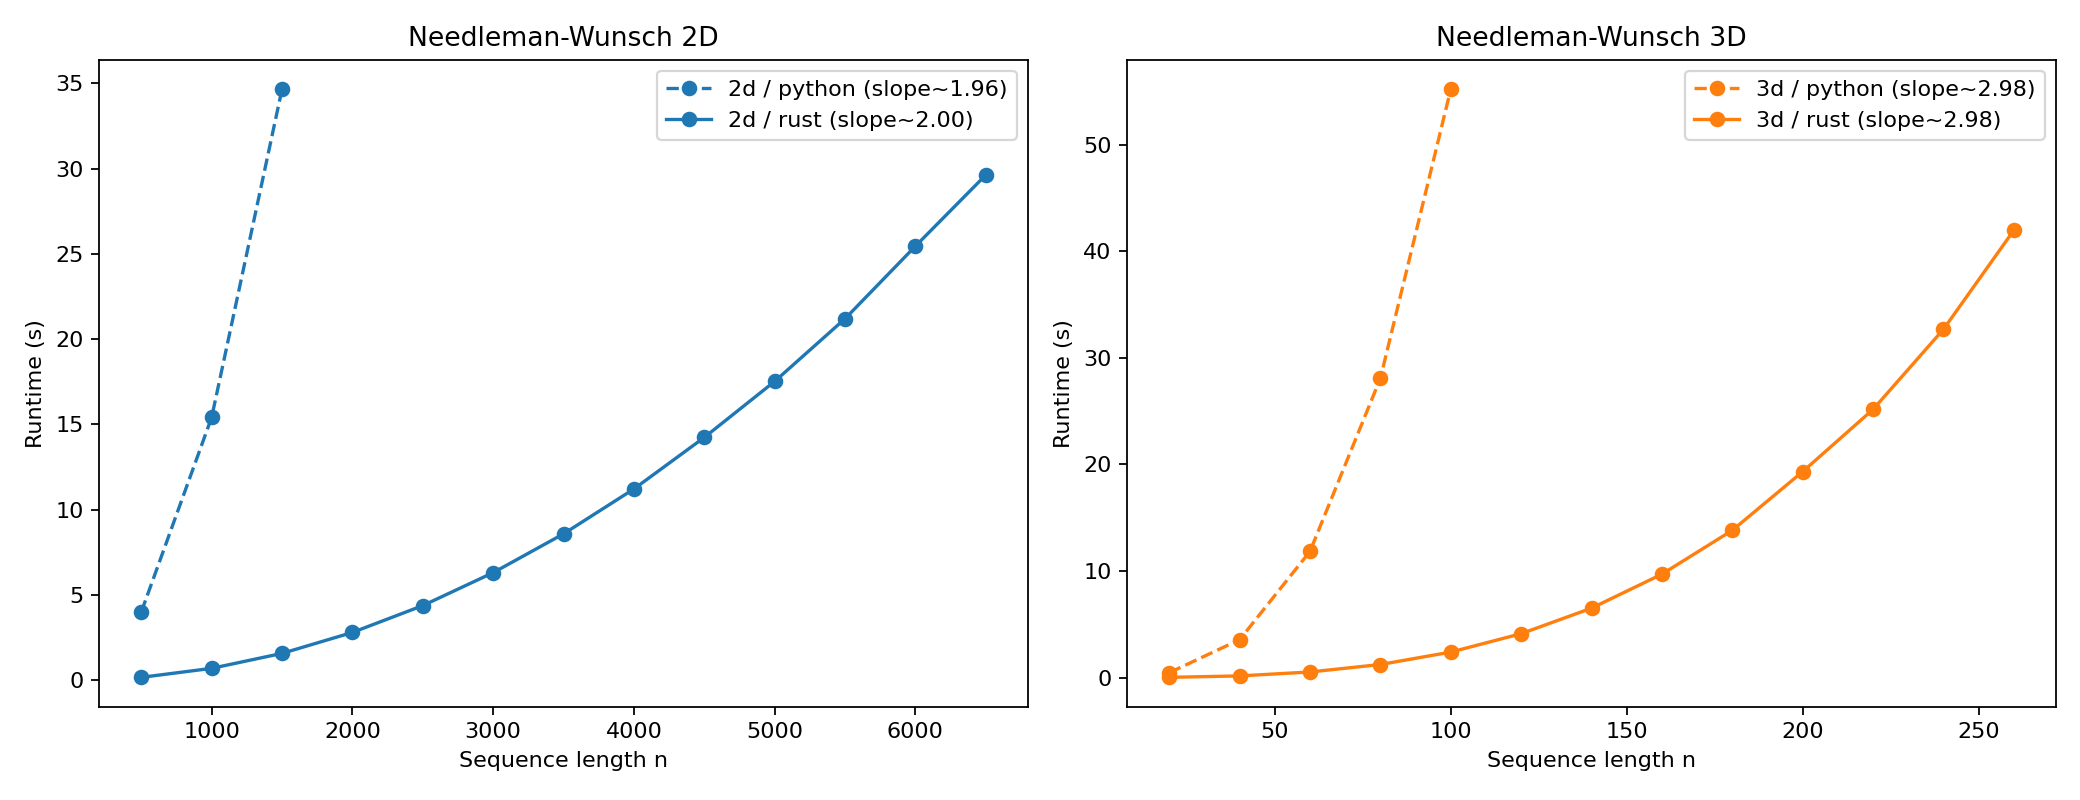
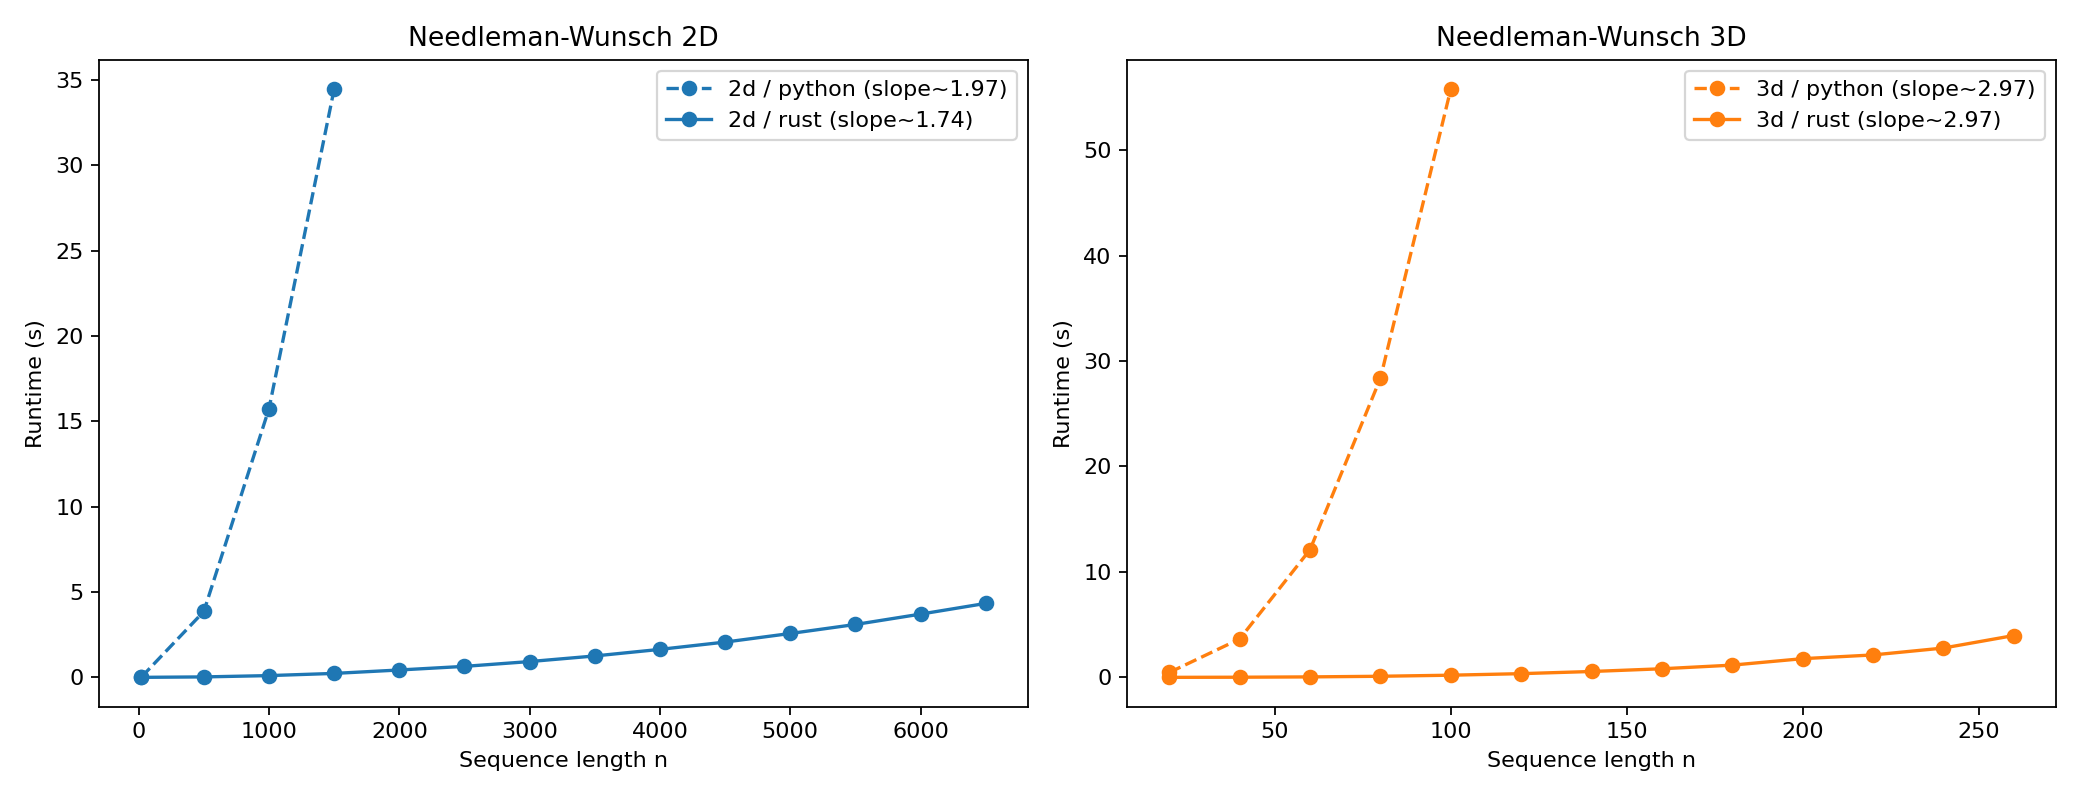
chore: refine benchmark execution, diagnostics, and updated performance artifacts
Benchmark runner improvements:

- enforce explicit execution order requested for visibility: 2d/rust -> 2d/python -> 3d/rust -> 3d/python

- add native build-path hint output so slow Rust runs are easier to diagnose (release-build reminder)

- compute and report speedups using overlapping/common n values instead of non-comparable tail points

- include n=20 in 2D sweep for early-stage parity visibility

- inject a RustScoreScaler for 2D Rust benchmark calls to satisfy current wrapper contract

Rust wrapper UX tweak:

- improve NotImplementedError text in src/sgad/rust/pairwise.py to include the received type for faster debugging

Artifacts refreshed:

- regenerate benchmarks/time_complexity.csv and benchmarks/time_complexity.png with the updated run order and release-mode native build

diff --git a/benchmarks/benchmark_rust_vs_python.py b/benchmarks/benchmark_rust_vs_python.py
@@ -12,8 +12,10 @@ import numpy as np
 
 from sgad.pairwise import needleman_wunsch as py_nw
 from sgad.pairwise_3d import needleman_wunsch_3d as py_nw3
+from sgad.rust.pairwise import make_rust_score_scaler
 from sgad.rust.pairwise import needleman_wunsch as rs_nw
 from sgad.rust.pairwise_3d import needleman_wunsch_3d as rs_nw3
+from sgad_rust_native import __file__ as _sgad_rust_native_file
 
 MAT = {
     "A": {"A": 2, "C": -1, "G": -1, "T": -1},
@@ -167,6 +169,39 @@ def _plot_from_csv(csv_path: Path, fig_path: Path) -> dict[tuple[str, str], dict
     return series
 
 
+def _print_native_build_hint() -> None:
+    native_path = Path(_sgad_rust_native_file)
+    print(f"Native module entry: {native_path}")
+    print(
+        "Hint: if Rust timings look unexpectedly slow, rebuild with: "
+        "`uv run maturin develop --release -m rust/Cargo.toml`."
+    )
+
+
+def _print_common_speedup(series: dict[tuple[str, str], dict[str, list[float] | list[int]]], dim: str) -> None:
+    py_ns = list(series[(dim, "python")]["n"])
+    py_ts = list(series[(dim, "python")]["t"])
+    rs_ns = list(series[(dim, "rust")]["n"])
+    rs_ts = list(series[(dim, "rust")]["t"])
+
+    py_map = {int(n): float(t) for n, t in zip(py_ns, py_ts)}
+    rs_map = {int(n): float(t) for n, t in zip(rs_ns, rs_ts)}
+    common_ns = sorted(set(py_map) & set(rs_map))
+
+    if not common_ns:
+        print(f"{dim.upper()} speedup (common n): no overlap")
+        return
+
+    ratios = [py_map[n] / rs_map[n] for n in common_ns]
+    tail_n = common_ns[-1]
+    tail_speedup = ratios[-1]
+    median_speedup = float(np.median(np.array(ratios, dtype=float)))
+    print(
+        f"{dim.upper()} speedup (common n): "
+        f"tail n={tail_n} => {tail_speedup:.2f}x, median={median_speedup:.2f}x"
+    )
+
+
 def main() -> None:
     out_dir = Path("benchmarks")
     out_dir.mkdir(parents=True, exist_ok=True)
@@ -176,6 +211,7 @@ def main() -> None:
     if len(sys.argv) > 1 and sys.argv[1] == "--plot-only":
         if not csv_path.exists():
             raise FileNotFoundError(f"CSV not found for plot-only mode: {csv_path}")
+        _print_native_build_hint()
         _plot_from_csv(csv_path, fig_path)
         print(f"Wrote {fig_path}")
         return
@@ -185,7 +221,7 @@ def main() -> None:
     timeout_s = 60.0
 
     # 2D request: 500..10000 step 500. 3D uses a smaller linear sweep.
-    two_d_sizes = list(range(500, 10001, 500))
+    two_d_sizes = [20] + list(range(500, 10001, 500))
     three_d_sizes = list(range(20, 1001, 20))
 
     max_pairwise_bytes = 1_500_000_000
@@ -204,52 +240,62 @@ def main() -> None:
         ("3d", "python"): py_nw3,
         ("3d", "rust"): rs_nw3,
     }
+    rust_2d_scaler = make_rust_score_scaler(decay_exponent=1.0, temperature=1.0)
 
     print("Starting benchmark scan")
     print(f"Per-alignment timeout: {timeout_s:.0f}s")
+    _print_native_build_hint()
 
-    for dim, sizes in (("2d", two_d_sizes), ("3d", three_d_sizes)):
-        for backend in ("python", "rust"):
-            fn = call_map[(dim, backend)]
-            print(f"\n[{dim}/{backend}] scan start with {len(sizes)} candidate sizes")
+    run_plan = [
+        ("2d", "rust", two_d_sizes),
+        ("2d", "python", two_d_sizes),
+        ("3d", "rust", three_d_sizes),
+        ("3d", "python", three_d_sizes),
+    ]
 
-            for n in sizes:
-                if dim == "2d":
-                    need_bytes = _pairwise_dp_bytes(n)
-                    if need_bytes > max_pairwise_bytes:
-                        print(
-                            f"[{dim}/{backend}] stop at n={n}: estimated memory {need_bytes / 1e9:.2f} GB > cap"
-                        )
-                        break
-                    seqs = (_rand_seq(rng, n), _rand_seq(rng, n))
-                else:
-                    need_bytes = _pairwise_3d_dp_bytes(n)
-                    if need_bytes > max_3d_bytes:
-                        print(
-                            f"[{dim}/{backend}] stop at n={n}: estimated memory {need_bytes / 1e9:.2f} GB > cap"
-                        )
-                        break
-                    seqs = (_rand_seq(rng, n), _rand_seq(rng, n), _rand_seq(rng, n))
+    for dim, backend, sizes in run_plan:
+        fn = call_map[(dim, backend)]
+        print(f"\n[{dim}/{backend}] scan start with {len(sizes)} candidate sizes")
 
-                kwargs = {"score_matrix": MAT}
-                print(f"[{dim}/{backend}] n={n}: running...")
-                status, payload = _timed_run(fn, seqs, kwargs, timeout_s=timeout_s)
-
-                if status == "ok":
-                    elapsed = float(payload)
-                    series[(dim, backend)]["n"].append(n)
-                    series[(dim, backend)]["t"].append(elapsed)
-                    print(f"[{dim}/{backend}] n={n}: {elapsed:.3f}s")
-                    continue
-
-                if status == "timeout":
+        for n in sizes:
+            if dim == "2d":
+                need_bytes = _pairwise_dp_bytes(n)
+                if need_bytes > max_pairwise_bytes:
                     print(
-                        f"[{dim}/{backend}] stop at n={n}: exceeded {timeout_s:.0f}s timeout; skipping larger n"
+                        f"[{dim}/{backend}] stop at n={n}: estimated memory {need_bytes / 1e9:.2f} GB > cap"
                     )
                     break
+                seqs = (_rand_seq(rng, n), _rand_seq(rng, n))
+            else:
+                need_bytes = _pairwise_3d_dp_bytes(n)
+                if need_bytes > max_3d_bytes:
+                    print(
+                        f"[{dim}/{backend}] stop at n={n}: estimated memory {need_bytes / 1e9:.2f} GB > cap"
+                    )
+                    break
+                seqs = (_rand_seq(rng, n), _rand_seq(rng, n), _rand_seq(rng, n))
 
-                print(f"[{dim}/{backend}] stop at n={n}: error {payload}")
+            kwargs = {"score_matrix": MAT}
+            if dim == "2d" and backend == "rust":
+                kwargs["score_scale_fn"] = rust_2d_scaler
+            print(f"[{dim}/{backend}] n={n}: running...")
+            status, payload = _timed_run(fn, seqs, kwargs, timeout_s=timeout_s)
+
+            if status == "ok":
+                elapsed = float(payload)
+                series[(dim, backend)]["n"].append(n)
+                series[(dim, backend)]["t"].append(elapsed)
+                print(f"[{dim}/{backend}] n={n}: {elapsed:.3f}s")
+                continue
+
+            if status == "timeout":
+                print(
+                    f"[{dim}/{backend}] stop at n={n}: exceeded {timeout_s:.0f}s timeout; skipping larger n"
+                )
                 break
+
+            print(f"[{dim}/{backend}] stop at n={n}: error {payload}")
+            break
 
     _write_series_csv(series, csv_path)
     series = _plot_from_csv(csv_path, fig_path)
@@ -269,15 +315,8 @@ def main() -> None:
                     f"- {dim}/{backend}: {len(ns)} points, n_max={ns[-1]}, slope~{exp:.3f}, last={ts[-1]:.3f}s"
                 )
 
-    if len(series[("2d", "python")]["n"]) > 0 and len(series[("2d", "rust")]["n"]) > 0:
-        py_last = series[("2d", "python")]["t"][-1]
-        rs_last = series[("2d", "rust")]["t"][-1]
-        print(f"2D speedup at largest common tail point (approx): {py_last / rs_last:.2f}x")
-
-    if len(series[("3d", "python")]["n"]) > 0 and len(series[("3d", "rust")]["n"]) > 0:
-        py_last = series[("3d", "python")]["t"][-1]
-        rs_last = series[("3d", "rust")]["t"][-1]
-        print(f"3D speedup at largest common tail point (approx): {py_last / rs_last:.2f}x")
+    _print_common_speedup(series, "2d")
+    _print_common_speedup(series, "3d")
 
     print(f"Wrote {fig_path}")
     print(f"Wrote {csv_path}")

diff --git a/src/sgad/rust/pairwise.py b/src/sgad/rust/pairwise.py
@@ -27,7 +27,8 @@ def needleman_wunsch(
     """
     if not isinstance(score_scale_fn, RustScoreScaler):
         raise NotImplementedError(
-            "Rust backend supports no_score_scale_factor, None (no scaling), or RustScoreScaler from make_rust_score_scaler"
+            "Rust backend supports None (no scaling), or RustScoreScaler from "
+            f"make_rust_score_scaler, but got {type(score_scale_fn)}"
         )
 
     return _needleman_wunsch(
